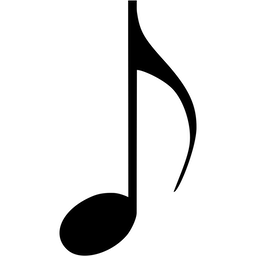
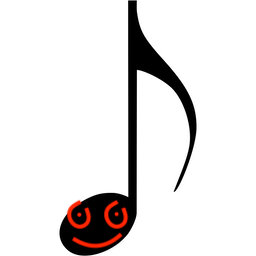
New creatives added, fixed a few bugs

Changed region(s): [[0.25, 0.7812, 0.5, 0.9688]]

diff --git a/cPlusPlus/tree_jump/app.h b/cPlusPlus/tree_jump/app.h
@@ -29,7 +29,7 @@ void app::load_texture(sf::Texture* some_texture,std::string textureFile){
     }
 }
 
-void app::game(sf::RenderWindow& window,sf::View view,sf::View HUD,float VIEW_WIDTH){
+void app::game(sf::RenderWindow& window,sf::View frontview,sf::View backview,float VIEW_WIDTH){
 
     // timers
     float deltaTime {0.0f};
@@ -38,6 +38,12 @@ void app::game(sf::RenderWindow& window,sf::View view,sf::View HUD,float VIEW_WI
     size_t rectsLen {0};
     int i {1};
     sf::Clock clock;
+
+    // Background
+    std::string backFile {"v_assets/background1.jpg"};
+    sf::Texture backTexture;
+    load_texture(&backTexture,backFile);
+    Object* background = new Object(&backTexture,{1500.0f,1500.0f},{0.0f,-100.0f});
 
     // Tree branches
     std::string branchFile {"v_assets/tree.png"};
@@ -62,22 +68,24 @@ void app::game(sf::RenderWindow& window,sf::View view,sf::View HUD,float VIEW_WI
     std::string trunkFile {"v_assets/trunk.png"};
     sf::Texture trunkTexture;
     load_texture(&trunkTexture,trunkFile);
-    Trunk* trunk1 = new Trunk(&trunkTexture,{100.0f,300.0f},{575.0f,800.0f});
-    Trunk* trunk2 = new Trunk(&trunkTexture,{100.0f,300.0f},{585.0f,500.0f});
-    Trunk* trunk3 = new Trunk(&trunkTexture,{100.0f,300.0f},{575.0f,200.0f});
-    Trunk* trunk4 = new Trunk(&trunkTexture,{100.0f,300.0f},{585.0f,-100.0f});
+    Trunk* trunk1 = new Trunk(&trunkTexture,{100.0f,300.0f},{575.0f,1100.0f});
+    Trunk* trunk2 = new Trunk(&trunkTexture,{100.0f,300.0f},{575.0f,800.0f});
+    Trunk* trunk3 = new Trunk(&trunkTexture,{100.0f,300.0f},{585.0f,500.0f});
+    Trunk* trunk4 = new Trunk(&trunkTexture,{100.0f,300.0f},{575.0f,200.0f});
+    Trunk* trunk5 = new Trunk(&trunkTexture,{100.0f,300.0f},{585.0f,-100.0f});
     std::vector<Trunk*> trunks;
     trunks.push_back(trunk1);
     trunks.push_back(trunk2);
     trunks.push_back(trunk3);
     trunks.push_back(trunk4);
+    trunks.push_back(trunk5);
 
     // Music notes
     std::string noteFile {"v_assets/note.png"};
     sf::Texture noteTexture;
     load_texture(&noteTexture,noteFile);
-    Note* note1 = new Note(&noteTexture,{30.0f,50.0f},{700.0f,970.0f});
-    Note* note2 = new Note(&noteTexture,{30.0f,50.0f},{430.0f,770.0f});
+    Note* note1 = new Note(&noteTexture,{45.0f,70.0f},{700.0f,800.0f});
+    Note* note2 = new Note(&noteTexture,{45.0f,70.0f},{550.0f,600.0f});
     std::vector<Note*> notes;
     notes.push_back(note1);
     notes.push_back(note2);
@@ -86,11 +94,11 @@ void app::game(sf::RenderWindow& window,sf::View view,sf::View HUD,float VIEW_WI
     std::string armFile {"v_assets/arm.png"};
     sf::Texture armTexture;
     load_texture(&armTexture,armFile);
-    std::string unicornFile {"v_assets/unicorn.png"};
+    std::string foxFile {"v_assets/fox.png"};
     sf::Texture unicornTexture;
-    load_texture(&unicornTexture,unicornFile);
-    Player* player_arm = new Player(&armTexture,{0.0f,30.0f},{600.0f,1100.0f},900.0f,true);
-    Player* main_player = new Player(&unicornTexture,{100.0f,100.0f},{600.0f,1100.0f},100.0f,false);
+    load_texture(&unicornTexture,foxFile);
+    Player* player_arm = new Player(&armTexture,{0.0f,60.0f},{500.0f,1000.0f},900.0f,true);
+    Player* main_player = new Player(&unicornTexture,{150.0f,190.0f},{500.0f,1000.0f},100.0f,false);
     // Player* player_bird = new Player({50.0f,50.0f},{370.0f,900.0f},500.0f,false);
     std::vector<Player*> players;
     players.push_back(player_arm);
@@ -101,9 +109,10 @@ void app::game(sf::RenderWindow& window,sf::View view,sf::View HUD,float VIEW_WI
 
         deltaTime = clock.restart().asSeconds();
         totalTime += deltaTime;
-        view.setCenter(VIEW_WIDTH/2,main_player->getPosition().y-100.0f);
-        view.setSize(800.0f,800.0f);
-        
+        frontview.setCenter(VIEW_WIDTH/2,main_player->getPosition().y-100.0f);        
+        frontview.setSize(800.0f,800.0f);
+        backview.setCenter(0.0f,(main_player->getPosition().y-1200.0f)*0.1);
+
         // this part handles events related to the actual game window like closing or resizing. 
         sf::Event evnt;
         while(window.pollEvent(evnt)){
@@ -113,23 +122,29 @@ void app::game(sf::RenderWindow& window,sf::View view,sf::View HUD,float VIEW_WI
                 window.close();
                 break;
             case sf::Event::Resized:
-                resizedView(window,view,VIEW_WIDTH);
+                resizedView(window,frontview,VIEW_WIDTH);
                 printf("New window width: %i New window height: %i\n", evnt.size.width, evnt.size.height);
                 break;
             case sf::Event::KeyPressed:
                 if (evnt.key.code == sf::Keyboard::Escape)
                         window.close();
                 if (evnt.key.code == sf::Keyboard::R)
-                    game(window,view,HUD,VIEW_WIDTH);
+                    game(window,frontview,backview,VIEW_WIDTH);
                 break;
             default:
                 break;
             }
         }
-        // handle & draw objects
+        
         window.clear(sf::Color(245,230,230));
-        window.setView(view);
-        Ycoord = view.getCenter().y;
+
+        // set background
+        window.setView(backview);
+        background->Draw(window);
+
+        // handle & draw objects
+        window.setView(frontview);
+        Ycoord = frontview.getCenter().y;
         if (sf::Mouse::isButtonPressed(sf::Mouse::Left)){
             for (auto plr: players){
                 plr->setMouseClickPos(window.mapPixelToCoords(sf::Mouse::getPosition(window)));
@@ -179,11 +194,10 @@ void app::game(sf::RenderWindow& window,sf::View view,sf::View HUD,float VIEW_WI
             };
             note->Draw(window);
         }
-
         // player_bird->BirdMovement(main_player->getPosition(),deltaTime);
         // player_bird->Animate(main_player->getPosition(),totalTime);
         // player_bird->Draw(window);
-
+        
         window.display();
     }
 }

diff --git a/cPlusPlus/tree_jump/player.h b/cPlusPlus/tree_jump/player.h
@@ -98,13 +98,15 @@ void Player::Animate(sf::Vector2f plrPos,float totaltime){
 void Player::Rotate(){
     // Pythagoras theorem to determine angle of shape using trigonometry
     if(arm){
-        float a = mouseClickPos.y-shape.getPosition().y;
-        float b = mouseClickPos.x-shape.getPosition().x;
-        angle = atanf(a/b)*180/PI;
-        if(!clickToRight){
-            angle+=180;
+        if(abs(shape.getSize().x) < 20.0f){
+            float a = mouseClickPos.y-shape.getPosition().y;
+            float b = mouseClickPos.x-shape.getPosition().x;
+            angle = atanf(a/b)*180/PI;
+            if(!clickToRight){
+                angle+=180;
+            }
+            shape.setRotation(angle);
         }
-        shape.setRotation(angle);
     }
 }
 
@@ -145,9 +147,8 @@ void Player::Stop(){
 }
 
 void Player::setMouseClickPos(sf::Vector2f newClick) {
-    mouseClickPos = newClick;
     if(arm){
-        if(shape.getSize().x <= 5.0f){
+        if(abs(shape.getSize().x) <= 20.0f){
             mouseClickPos = newClick;    
         }
     }else{

diff --git a/cPlusPlus/tree_jump/notes.h b/cPlusPlus/tree_jump/notes.h
@@ -27,7 +27,7 @@ Note::Note(sf::Texture* textureFile, sf::Vector2f objectSize, sf::Vector2f posit
     shape.setPosition(position);
     shape.setSize(objectSize);
     shape.setOrigin(objectSize.x/2,objectSize.y/2);
-    shape.setFillColor(sf::Color(255,255,0,255));
+    shape.setFillColor(sf::Color(255,255,255,255));
     shape.setTexture(textureFile);
 }
 
@@ -41,8 +41,8 @@ void Note::Animate(float totalTime){
 }
 
 bool Note::MoveElsewhere(sf::Vector2f plrPos, sf::Vector2f branchPos){
-    if(abs(shape.getPosition().x - plrPos.x) < 75.0f &
-       abs(shape.getPosition().y - plrPos.y) < 75.0f){
+    if(abs(shape.getPosition().x - plrPos.x) < 100.0f &
+       abs(shape.getPosition().y - plrPos.y) < 100.0f){
             shape.setPosition(branchPos.x+90.0f,branchPos.y-5.0f);
             return true;
        }else{

diff --git a/cPlusPlus/tree_jump/object.h b/cPlusPlus/tree_jump/object.h
@@ -10,16 +10,24 @@ class Object {
 private:
     sf::RectangleShape shape;
 public:
-    // Object(sf::Texture* textureFile,sf::Vector2f objectSize, sf::Vector2f position, bool clickable);
     Object(sf::Texture*, sf::Vector2f, sf::Vector2f);
     ~Object();
+    void Draw(sf::RenderWindow&);
 };
 
 Object::Object(sf::Texture* textureFile, sf::Vector2f objectSize, sf::Vector2f position){
-    shape.setOrigin(400.0f,400.0f);
+    shape.setOrigin(objectSize.x/2,objectSize.y/2);
+    shape.setPosition(position);
+    shape.setSize(objectSize);
+    shape.setFillColor(sf::Color(150,100,180,110));
+    shape.setTexture(textureFile);
 }
 
 Object::~Object(){
+}
+
+void Object::Draw(sf::RenderWindow& window){
+    window.draw(shape);
 }
 
 #endif

diff --git a/cPlusPlus/tree_jump/main.cpp b/cPlusPlus/tree_jump/main.cpp
@@ -21,10 +21,10 @@ int main() {
     float SCREEN_HEIGHT {1200.0};
     static const float VIEW_HEIGHT = SCREEN_HEIGHT;
     sf::RenderWindow window(sf::VideoMode(SCREEN_WIDTH,SCREEN_HEIGHT),"Tree jump",sf::Style::Close | sf::Style::Resize);
-    sf::View view(sf::Vector2f(0.0f,0.0f),sf::Vector2f(SCREEN_HEIGHT,SCREEN_WIDTH));
-    sf::View HUD(sf::Vector2f(0.0f,0.0f),sf::Vector2f(SCREEN_HEIGHT,SCREEN_WIDTH));
+    sf::View frontview(sf::Vector2f(0.0f,0.0f),sf::Vector2f(SCREEN_HEIGHT,SCREEN_WIDTH));
+    sf::View backview(sf::Vector2f(0.0f,0.0f),sf::Vector2f(SCREEN_HEIGHT,SCREEN_WIDTH));
 
-    app.game(window,view,HUD,VIEW_HEIGHT);
+    app.game(window,frontview,backview,VIEW_HEIGHT);
 
     return 0;
 }

diff --git a/cPlusPlus/tree_jump/trunk.h b/cPlusPlus/tree_jump/trunk.h
@@ -23,7 +23,7 @@ Trunk::Trunk(sf::Texture* textureFile, sf::Vector2f objectSize, sf::Vector2f pos
     :Object(textureFile,objectSize,position){
     shape.setPosition(position);
     shape.setSize(objectSize);
-    shape.setFillColor(sf::Color(210,105,30,150));
+    shape.setFillColor(sf::Color(190,105,30,255));
     shape.setTexture(textureFile);
 }
 
